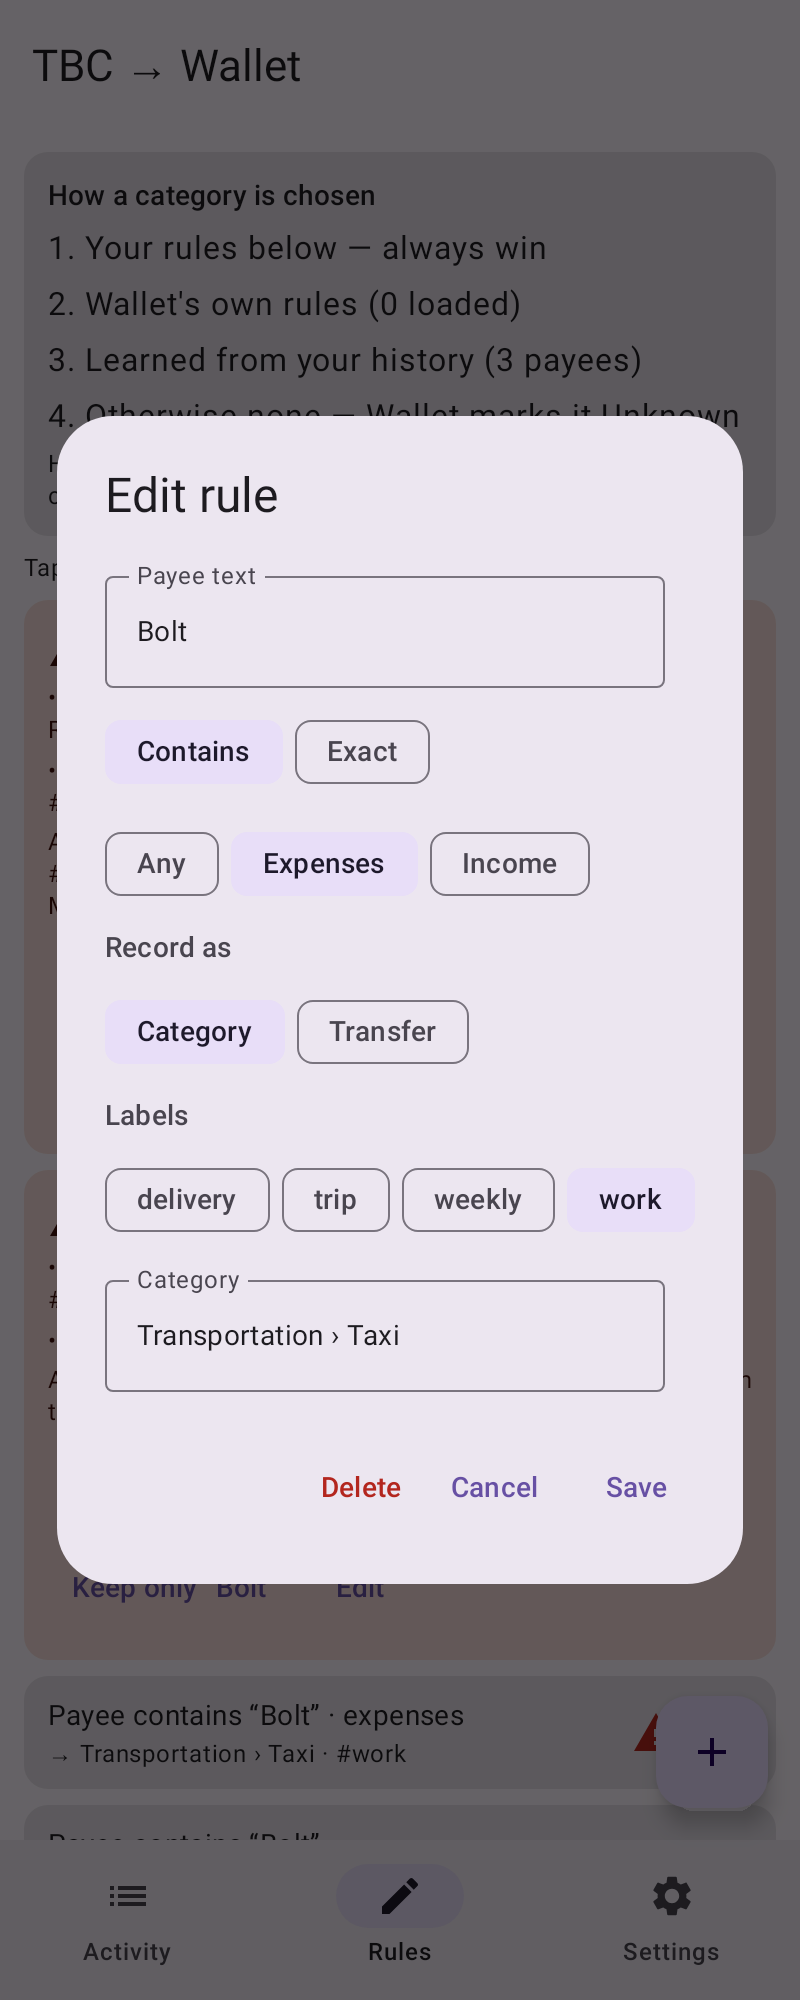
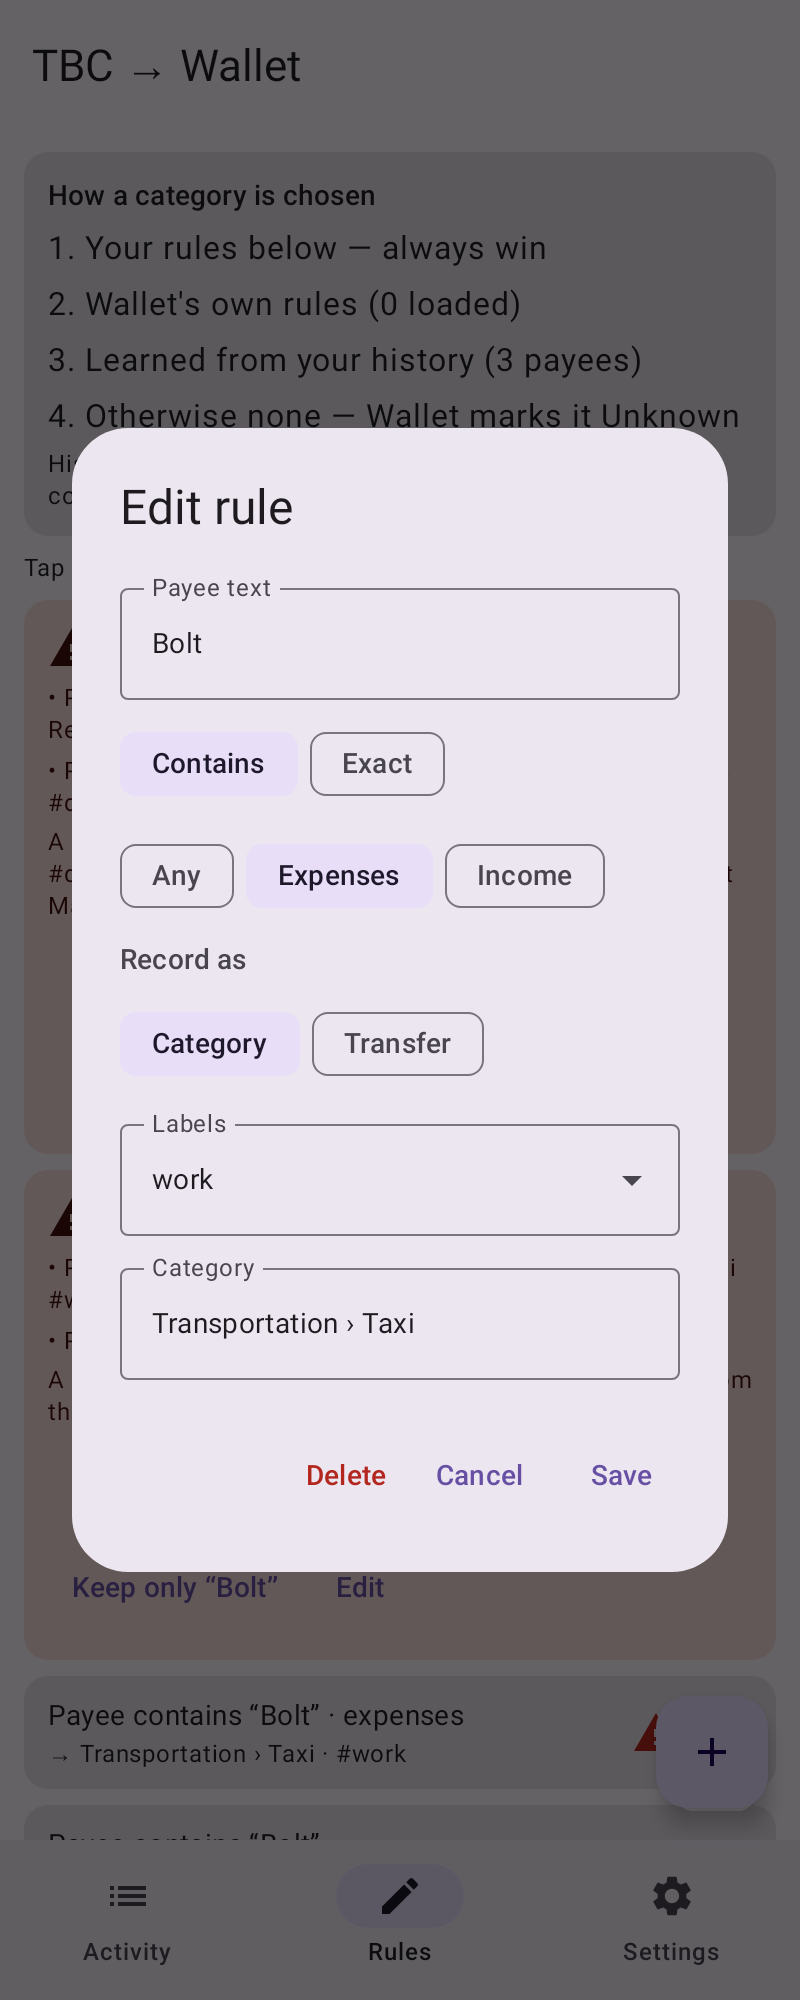
Rules: label drop-down, swipe to forget learned payees, daily re-learn (#16)
* Pick a rule's labels from a drop-down

The rule dialog's wrapping row of label chips becomes one "Labels" field
that opens a list of Wallet's labels with checkboxes; the field shows the
chosen ones. The list stays open while ticking, so several can be picked.

Claude-Session: https://claude.ai/code/session_017v3NayTK3raYdeRCJGeCRv

* Swipe a learned payee away to forget it

Swiping a row in "Learned from your history" asks to confirm, then removes
it. Forgotten payee keys are kept (in the backed-up account mapping prefs)
and skipped by the weekly re-learn, so they don't come straight back.
The swipe uses the same SwipeToDelete as the Activity swipe-to-delete
branch; whichever merges second keeps one copy.

Claude-Session: https://claude.ai/code/session_017v3NayTK3raYdeRCJGeCRv

* Re-read Wallet history daily instead of weekly

The learned payee map is rebuilt once it's a day old (the 6-hourly sync
checks), and the Rules tab text says so.

Claude-Session: https://claude.ai/code/session_017v3NayTK3raYdeRCJGeCRv

* Keep the labels field to one line

Many or long label names wrapped the field and could push the category
picker and buttons out of the rule dialog.

Claude-Session: https://claude.ai/code/session_017v3NayTK3raYdeRCJGeCRv

---------

diff --git a/app/src/main/java/su/iho/tbc2wallet/MainActivity.kt b/app/src/main/java/su/iho/tbc2wallet/MainActivity.kt
@@ -43,10 +43,15 @@ import androidx.compose.material.icons.filled.KeyboardArrowUp
 import androidx.compose.material.icons.filled.Settings
 import androidx.compose.material.icons.filled.Warning
 import androidx.compose.material3.AlertDialog
+import androidx.compose.foundation.background
+import androidx.compose.material3.rememberSwipeToDismissBoxState
+import androidx.compose.material3.SwipeToDismissBoxValue
+import androidx.compose.material3.SwipeToDismissBox
 import androidx.compose.material3.AssistChip
 import androidx.compose.material3.Button
 import androidx.compose.material3.Card
 import androidx.compose.material3.CardDefaults
+import androidx.compose.material3.Checkbox
 import androidx.compose.material3.DropdownMenuItem
 import androidx.compose.material3.ExperimentalMaterial3Api
 import androidx.compose.material3.ExposedDropdownMenuBox
@@ -313,6 +318,7 @@ private fun RulesScreen(vm: MainViewModel, onEdit: (UserRuleEntity) -> Unit) {
     val walletRules by vm.walletRuleCount.collectAsState()
     val learned by vm.learned.collectAsState()
     var learnedOpen by rememberSaveable { mutableStateOf(false) }
+    var forgetting by remember { mutableStateOf<LearnedEntity?>(null) }
     val clashes = remember(rules) { RuleClashes.find(rules.sortedBy { it.id }) { it.toUserRule() } }
     val clashing = remember(clashes) { clashes.flatMap { listOf(it.first.id, it.second.id) }.toSet() }
     // Extra bottom space so the + button never covers the last row.
@@ -329,7 +335,7 @@ private fun RulesScreen(vm: MainViewModel, onEdit: (UserRuleEntity) -> Unit) {
                     Text("3. Learned from your history (${learned.size} payees)")
                     Text("4. Otherwise none — Wallet marks it Unknown")
                     Text(
-                        "History is re-read weekly. If you fix a category in Wallet, that correction counts triple next time.",
+                        "History is re-read daily. If you fix a category in Wallet, that correction counts triple next time.",
                         style = MaterialTheme.typography.bodySmall,
                     )
                 }
@@ -359,20 +365,55 @@ private fun RulesScreen(vm: MainViewModel, onEdit: (UserRuleEntity) -> Unit) {
             if (learnedOpen) {
                 item(key = "learned-hint") {
                     Text(
-                        "Rebuilt from Wallet every week. Tap one to turn it into your own rule.",
+                        "Rebuilt from Wallet every day. Tap one to turn it into your own rule, or swipe it away to forget it.",
                         style = MaterialTheme.typography.bodySmall,
                     )
                 }
                 items(learned, key = { "learned-" + it.payeeKey }) { entry ->
-                    LearnedRow(entry, onClick = {
-                        onEdit(newRule(entry.payeeKey).copy(
-                            matchType = "EXACT", categoryId = entry.categoryId, categoryName = entry.categoryName,
-                        ))
-                    })
+                    SwipeToDelete(onSwiped = { forgetting = entry }) {
+                        LearnedRow(entry, onClick = {
+                            onEdit(newRule(entry.payeeKey).copy(
+                                matchType = "EXACT", categoryId = entry.categoryId, categoryName = entry.categoryName,
+                            ))
+                        })
+                    }
                 }
             }
         }
     }
+    forgetting?.let { entry ->
+        AlertDialog(
+            onDismissRequest = { forgetting = null },
+            title = { Text("Forget “${entry.payeeKey}”?") },
+            text = { Text("It stops getting ${entry.categoryName} from your history, and later re-learns skip it. Your own rules aren't affected.") },
+            confirmButton = {
+                TextButton(onClick = { vm.forgetLearned(entry); forgetting = null }) { Text("Forget", color = MaterialTheme.colorScheme.error) }
+            },
+            dismissButton = { TextButton(onClick = { forgetting = null }) { Text("Cancel") } },
+        )
+    }
+}
+
+/** Swiping either way asks [onSwiped] to confirm; the card springs back until the row is really gone. */
+@OptIn(ExperimentalMaterial3Api::class)
+@Composable
+private fun SwipeToDelete(onSwiped: () -> Unit, content: @Composable () -> Unit) {
+    val state = rememberSwipeToDismissBoxState(confirmValueChange = {
+        if (it != SwipeToDismissBoxValue.Settled) onSwiped()
+        false
+    })
+    SwipeToDismissBox(
+        state = state,
+        backgroundContent = {
+            val start = state.dismissDirection == SwipeToDismissBoxValue.StartToEnd
+            Box(
+                Modifier.fillMaxSize().background(MaterialTheme.colorScheme.errorContainer, CardDefaults.shape).padding(horizontal = 20.dp),
+                contentAlignment = if (start) Alignment.CenterStart else Alignment.CenterEnd,
+            ) {
+                Icon(Icons.Default.Delete, contentDescription = "Delete", tint = MaterialTheme.colorScheme.onErrorContainer)
+            }
+        },
+    ) { content() }
 }
 
 @Composable
@@ -504,25 +545,10 @@ private fun RuleDialog(vm: MainViewModel, initial: UserRuleEntity, onDismiss: ()
                     FilterChip(!asTransfer, { asTransfer = false }, label = { Text("Category") })
                     FilterChip(asTransfer, { asTransfer = true }, label = { Text("Transfer") })
                 }
-                Text("Labels", style = MaterialTheme.typography.labelLarge)
                 // Labels on the rule that Wallet no longer lists still show, so they can be removed.
                 val shown = labels.map { it.id to it.name } + chosenLabels.filterKeys { id -> labels.none { it.id == id } }.toList()
-                if (shown.isEmpty()) {
-                    Text("No labels loaded from Wallet.", style = MaterialTheme.typography.bodySmall)
-                } else {
-                    // Capped and scrollable so a long label list can't push the category picker out of the dialog.
-                    FlowRow(
-                        Modifier.heightIn(max = 120.dp).verticalScroll(rememberScrollState()),
-                        horizontalArrangement = Arrangement.spacedBy(6.dp),
-                    ) {
-                        shown.forEach { (id, name) ->
-                            FilterChip(
-                                selected = id in chosenLabels,
-                                onClick = { chosenLabels = if (id in chosenLabels) chosenLabels - id else chosenLabels + (id to name) },
-                                label = { Text(name) },
-                            )
-                        }
-                    }
+                LabelPicker(shown, chosenLabels) { id, name ->
+                    chosenLabels = if (id in chosenLabels) chosenLabels - id else chosenLabels + (id to name)
                 }
                 if (asTransfer) {
                     // Wallet creates the other side of the transfer there, which it won't do in a bank-synced account.
@@ -765,6 +791,36 @@ private fun AccountPicker(currency: String, options: List<AccountEntity>, select
                 )
             }
             if (selected != null) DropdownMenuItem(text = { Text("Clear") }, onClick = { onSelect(null); expanded = false })
+        }
+    }
+}
+
+/** Multi-select drop-down of Wallet labels. [options] and [chosen] are id -> name; the menu stays open while ticking. */
+@OptIn(ExperimentalMaterial3Api::class)
+@Composable
+internal fun LabelPicker(options: List<Pair<String, String>>, chosen: Map<String, String>, onToggle: (String, String) -> Unit) {
+    var expanded by remember { mutableStateOf(false) }
+    ExposedDropdownMenuBox(expanded, { expanded = it }) {
+        OutlinedTextField(
+            value = if (chosen.isEmpty()) "None" else options.filter { it.first in chosen }.joinToString(", ") { it.second },
+            // One line, so many or long labels can't stretch the dialog past its buttons.
+            onValueChange = {}, readOnly = true, singleLine = true,
+            label = { Text("Labels") },
+            trailingIcon = { ExposedDropdownMenuDefaults.TrailingIcon(expanded) },
+            modifier = Modifier.menuAnchor(MenuAnchorType.PrimaryNotEditable),
+        )
+        ExposedDropdownMenu(expanded, { expanded = false }) {
+            if (options.isEmpty()) DropdownMenuItem(
+                text = { Text("No labels loaded. Add your token in Settings and tap Refresh.") },
+                onClick = { expanded = false },
+            )
+            options.forEach { (id, name) ->
+                DropdownMenuItem(
+                    text = { Text(name) },
+                    leadingIcon = { Checkbox(checked = id in chosen, onCheckedChange = null) },
+                    onClick = { onToggle(id, name) },
+                )
+            }
         }
     }
 }

diff --git a/app/src/test/java/su/iho/tbc2wallet/screenshots/RulesScreenshots.kt b/app/src/test/java/su/iho/tbc2wallet/screenshots/RulesScreenshots.kt
@@ -1,6 +1,17 @@
 package su.iho.tbc2wallet.screenshots
 
 import android.app.Application
+import androidx.compose.foundation.layout.Box
+import androidx.compose.foundation.layout.fillMaxSize
+import androidx.compose.foundation.layout.padding
+import androidx.compose.material3.Surface
+import androidx.compose.runtime.getValue
+import androidx.compose.runtime.mutableStateOf
+import androidx.compose.runtime.remember
+import androidx.compose.runtime.setValue
+import androidx.compose.ui.Modifier
+import androidx.compose.ui.unit.dp
+import su.iho.tbc2wallet.LabelPicker
 import androidx.compose.material3.MaterialTheme
 import androidx.compose.material3.lightColorScheme
 import androidx.compose.ui.test.ExperimentalTestApi
@@ -9,6 +20,9 @@ import androidx.compose.ui.test.hasText
 import androidx.compose.ui.test.junit4.createComposeRule
 import androidx.compose.ui.test.onNodeWithText
 import androidx.compose.ui.test.performClick
+import androidx.compose.ui.test.performTouchInput
+import androidx.compose.ui.test.swipeLeft
+import androidx.compose.ui.geometry.Offset
 import androidx.compose.ui.test.performScrollToNode
 import androidx.test.core.app.ApplicationProvider
 import com.github.takahirom.roborazzi.ExperimentalRoborazziApi
@@ -104,5 +118,48 @@ class RulesScreenshots {
         compose.onNodeWithText("Payee contains “Bolt” · expenses").performClick()
         compose.mainClock.advanceTimeBy(2_000)
         captureScreenRoboImage("$out/rule-edit-dialog.png")
+    }
+
+    @Test fun labelDropdown() {
+        // The picker on its own: finding nodes once the rule dialog is open over the app never idles.
+        compose.setContent {
+            MaterialTheme(colorScheme = lightColorScheme()) {
+                Surface(Modifier.fillMaxSize()) {
+                    Box(Modifier.padding(24.dp)) {
+                        var chosen by remember { mutableStateOf(mapOf("l1" to "delivery", "l3" to "work")) }
+                        val options = listOf("l1" to "delivery", "l4" to "trip", "l2" to "weekly", "l3" to "work")
+                        LabelPicker(options, chosen) { id, name -> chosen = if (id in chosen) chosen - id else chosen + (id to name) }
+                    }
+                }
+            }
+        }
+        compose.onNodeWithText("delivery, work").performClick()
+        compose.waitUntilAtLeastOneExists(hasText("trip"), 5_000)
+        captureScreenRoboImage("$out/rule-labels-dropdown.png")
+    }
+
+    @Test fun learnedSwipe() {
+        showRules()
+        scrollTo("Learned from your history (3)")
+        compose.onNodeWithText("Learned from your history (3)").performClick()
+        scrollTo("Payee is “SPAR”")
+        compose.waitUntilAtLeastOneExists(hasText("Payee is “GULF”"), 5_000)
+        // Held halfway, so the delete background shows.
+        compose.onNodeWithText("Payee is “GULF”").performTouchInput { down(centerRight); moveBy(Offset(-width * 0.4f, 0f)) }
+        compose.mainClock.advanceTimeBy(500)
+        captureScreenRoboImage("$out/learned-swipe.png")
+    }
+
+    @Test fun learnedForgetDialog() {
+        showRules()
+        scrollTo("Learned from your history (3)")
+        compose.onNodeWithText("Learned from your history (3)").performClick()
+        scrollTo("Payee is “SPAR”")
+        compose.waitUntilAtLeastOneExists(hasText("Payee is “GULF”"), 5_000)
+        // The dialog over the whole app never reports idle, so drive the clock by hand (see editRuleDialog).
+        compose.mainClock.autoAdvance = false
+        compose.onNodeWithText("Payee is “GULF”").performTouchInput { swipeLeft() }
+        compose.mainClock.advanceTimeBy(2_000)
+        captureScreenRoboImage("$out/learned-forget-dialog.png")
     }
 }

diff --git a/app/src/main/java/su/iho/tbc2wallet/sync/Catalog.kt b/app/src/main/java/su/iho/tbc2wallet/sync/Catalog.kt
@@ -71,14 +71,15 @@ class Catalog(private val context: Context) {
             .toMap()
 
         val learned = PayeeLearner.learn(history, settings.unknownCategoryIds, assignedByApp)
-        dao.replaceLearned(learned.values.map {
+        val forgotten = settings.forgottenPayees
+        dao.replaceLearned(learned.values.filter { it.payeeKey !in forgotten }.map {
             LearnedEntity(it.payeeKey, it.categoryId, it.categoryName, it.votes, it.totalVotes)
         })
         settings.lastLearnRefresh = System.currentTimeMillis()
     }
 
     fun catalogStale() = System.currentTimeMillis() - settings.lastCatalogRefresh > DAY_MS
-    fun learnedStale() = System.currentTimeMillis() - settings.lastLearnRefresh > 7 * DAY_MS
+    fun learnedStale() = System.currentTimeMillis() - settings.lastLearnRefresh > DAY_MS
 
     private companion object { const val DAY_MS = 24 * 60 * 60 * 1000L }
 }

diff --git a/app/src/main/java/su/iho/tbc2wallet/MainViewModel.kt b/app/src/main/java/su/iho/tbc2wallet/MainViewModel.kt
@@ -6,6 +6,7 @@ import android.provider.Settings.Secure
 import androidx.lifecycle.AndroidViewModel
 import androidx.lifecycle.viewModelScope
 import su.iho.tbc2wallet.api.WalletApi
+import su.iho.tbc2wallet.data.LearnedEntity
 import su.iho.tbc2wallet.data.AppDatabase
 import su.iho.tbc2wallet.data.Settings
 import su.iho.tbc2wallet.data.TransactionEntity
@@ -111,4 +112,10 @@ class MainViewModel(app: Application) : AndroidViewModel(app) {
     }
 
     fun deleteRule(rule: UserRuleEntity) = viewModelScope.launch { dao.deleteUserRule(rule.id) }
+
+    /** Drops a learned payee and keeps it out of later re-learns. */
+    fun forgetLearned(entry: LearnedEntity) = viewModelScope.launch {
+        settings.forgottenPayees = settings.forgottenPayees + entry.payeeKey
+        dao.deleteLearned(entry.payeeKey)
+    }
 }

diff --git a/app/src/main/java/su/iho/tbc2wallet/data/Settings.kt b/app/src/main/java/su/iho/tbc2wallet/data/Settings.kt
@@ -46,6 +46,11 @@ class Settings(context: Context) {
         get() = mapping.getStringSet("seen_currencies", setOf("GEL")) ?: setOf("GEL")
         set(value) = mapping.edit().putStringSet("seen_currencies", value).apply()
 
+    /** Learned payees you removed; the daily re-learn skips them. Backed up with the mapping. */
+    var forgottenPayees: Set<String>
+        get() = mapping.getStringSet("forgotten_payees", emptySet()) ?: emptySet()
+        set(value) = mapping.edit().putStringSet("forgotten_payees", value).apply()
+
     /** One-time move for installs that kept the mapping in "settings" before it was backed up. */
     private fun moveMappingOutOfSettings() {
         val old = prefs.all.filterKeys { it.startsWith("account_") || it == "seen_currencies" }

diff --git a/app/src/main/java/su/iho/tbc2wallet/data/Database.kt b/app/src/main/java/su/iho/tbc2wallet/data/Database.kt
@@ -157,6 +157,7 @@ abstract class AppDao {
     @Query("SELECT * FROM learned") abstract suspend fun learned(): List<LearnedEntity>
     @Query("SELECT * FROM learned ORDER BY payeeKey") abstract fun observeLearned(): Flow<List<LearnedEntity>>
     @Query("SELECT COUNT(*) FROM learned") abstract fun observeLearnedCount(): Flow<Int>
+    @Query("DELETE FROM learned WHERE payeeKey = :payeeKey") abstract suspend fun deleteLearned(payeeKey: String)
     @Query("DELETE FROM learned") abstract suspend fun clearLearned()
     @Insert abstract suspend fun insertLearned(items: List<LearnedEntity>)
     @Transaction open suspend fun replaceLearned(items: List<LearnedEntity>) { clearLearned(); insertLearned(items) }

diff --git a/HANDOFF.md b/HANDOFF.md
@@ -41,7 +41,7 @@ app/src/main/java/su/iho/tbc2wallet/
   data/Database.kt                 Room: transactions, user_rules, wallet_rules, learned, categories, accounts
   data/Settings.kt                 prefs + API token encrypted with an Android Keystore AES-GCM key
   sync/SyncWorker.kt               WorkManager: sends queue, 20 records per POST, 6-hourly safety run
-  sync/Catalog.kt                  refreshes accounts/categories/rules (daily) and learned map (weekly)
+  sync/Catalog.kt                  refreshes accounts/categories/rules (daily) and learned map (daily)
   MainActivity.kt, MainViewModel.kt  Compose UI: Activity / Rules / Settings tabs
 ```
 
